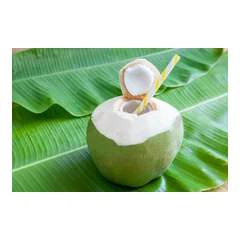
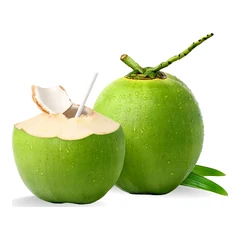
Corrige fotos de bebidas e centraliza miniaturas

diff --git a/index.html b/index.html
@@ -121,7 +121,17 @@
     h3 { margin: 0; font-size: 1.02rem; }
     article p { margin: .35rem 0; color: var(--muted); font-size: .9rem; line-height: 1.4; }
     strong { display: block; margin-top: .35rem; color: var(--accent); font-size: 1.08rem; font-variant-numeric: tabular-nums; }
-    article img { display: block; width: 100%; height: auto; aspect-ratio: 1; object-fit: contain; background: #fff; border-radius: .65rem; }
+    article img {
+      display: block;
+      place-self: center;
+      width: 100%;
+      height: auto;
+      aspect-ratio: 1;
+      object-fit: contain;
+      object-position: center;
+      background: #fff;
+      border-radius: .65rem;
+    }
   </style>
 </head>
 <body>
@@ -241,8 +251,8 @@
     </section>
     <section id="baldes-long-neck">
       <h2><span class="category-icon" aria-hidden="true">🧊</span>Baldes long neck</h2>
-      <article class="with-photo"><div><h3>Heineken (6 un.)</h3><strong>R$ 72,00</strong></div><img src="imagens/baldes/balde-heineken-long-neck.webp" alt="" width="240" height="240" loading="lazy" decoding="async"></article>
-      <article class="with-photo"><div><h3>Praya Lager (6 un.)</h3><strong>R$ 60,00</strong></div><img src="imagens/baldes/balde-praya.webp" alt="" width="240" height="240" loading="lazy" decoding="async"></article>
+      <article class="with-photo"><div><h3>Heineken (6 un.)</h3><strong>R$ 72,00</strong></div><img src="imagens/cervejas/heineken-long-neck.webp" alt="" width="240" height="240" loading="lazy" decoding="async"></article>
+      <article class="with-photo"><div><h3>Praya Lager (6 un.)</h3><strong>R$ 60,00</strong></div><img src="imagens/cervejas/praya-lager.webp" alt="" width="240" height="240" loading="lazy" decoding="async"></article>
     </section>
     <section id="drinks">
       <h2><span class="category-icon" aria-hidden="true">🍹</span>Drinks</h2>
@@ -253,8 +263,8 @@
       <h2><span class="category-icon" aria-hidden="true">🍷</span>Bebidas prontas</h2>
       <article class="with-photo"><div><h3>Skol Beats</h3><strong>R$ 13,00</strong></div><img src="imagens/drinks/skool-beats.webp" alt="" width="240" height="240" loading="lazy" decoding="async"></article>
       <article class="with-photo"><div><h3>Smirnoff Ice</h3><strong>R$ 13,00</strong></div><img src="imagens/drinks/smirnoff-ice.webp" alt="" width="240" height="240" loading="lazy" decoding="async"></article>
-      <article class="with-photo"><div><h3>GT Beats</h3><strong>R$ 13,00</strong></div><img src="imagens/drinks/gt-beats.webp" alt="" width="240" height="240" loading="lazy" decoding="async"></article>
-      <article class="with-photo"><div><h3>Draft Red</h3><strong>R$ 15,00</strong></div><img src="imagens/drinks/draft-red.webp" alt="" width="240" height="240" loading="lazy" decoding="async"></article>
+      <article class="with-photo"><div><h3>Beats GT (long neck)</h3><strong>R$ 13,00</strong></div><img src="imagens/drinks/gt-beats.webp" alt="" width="240" height="240" loading="lazy" decoding="async"></article>
+      <article class="with-photo"><div><h3>Chope de vinho Red Draft</h3><strong>R$ 15,00</strong></div><img src="imagens/drinks/draft-red.webp" alt="" width="240" height="240" loading="lazy" decoding="async"></article>
       <article class="with-photo"><div><h3>Taça de vinho</h3><strong>R$ 15,00</strong></div><img src="imagens/drinks/taca-de-vinho.webp" alt="" width="240" height="240" loading="lazy" decoding="async"></article>
       <article class="with-photo"><div><h3>Garrafa de vinho suave</h3><strong>R$ 40,00</strong></div><img src="imagens/drinks/garrafa-vinho-suave.webp" alt="" width="240" height="240" loading="lazy" decoding="async"></article>
       <article class="with-photo"><div><h3>Xeque Mate</h3><strong>R$ 17,00</strong></div><img src="imagens/drinks/xeque-mate.webp" alt="" width="240" height="240" loading="lazy" decoding="async"></article>

diff --git a/README.md b/README.md
@@ -13,15 +13,15 @@ O cardápio combina fotos de produtos e imagens ilustrativas. As miniaturas das 
 - [Del Valle em lata](https://www.zonasul.com.br/nectar-del-valle-uva-lata-290ml-879991/p)
 - [Coca-Cola Zero Açúcar](https://www.coopsupermercado.com.br/refrigerante-coca-cola-zero-lata-350ml-s/p)
 - [Powerade Mountain Blast](https://www.extrabom.com.br/p/isota-nico-powerade-mountain-blast-500ml/4784/)
-- [Coco verde natural](https://marieclaire.hu/szepseg/2022/03/24/kokuszviz-borapolas/)
+- [Coco verde natural](https://www.fambatsupermercados.com.br/product-page/coco-verde-unidade)
 - [Heineken 600 ml](https://www.cricare.com.br/74828-cerveja-heineken-garrafa-600ml-casco-gratis/p)
 - [Heineken long neck](https://www.aurestore.com.br/mercado/bebidas-alcoolicas/cerveja-heineken-long-neck-330ml)
 - [Heineken Ultimate](https://mercado.carrefour.com.br/produto/cerveja-lager-puro-malte-sem-gluten-heineken-ultimate-garrafa-330ml-340186304)
 - [Heineken 0.0](https://www.megaadega.com.br/cervejas/cerveja-heineken-0-0-330ml-vidro)
 - [Skol Beats Senses](https://www.americanas.com.br/skol-beats-senses-long-neck-269ml-12-unidades-7496763960/p)
-- [Beats GT](https://www.bemol.com.br/beats-drinks-gt-gin-tonica-lata-269ml-01-unidade/p)
+- [Beats GT long neck](https://www.casadebebidas.com/p/bebida-mista-alcoolica-gaseificada-gin-tonica-beats-gt-garrafa-269ml)
 - [Praya Lager](https://www.paulistaoatacadista.com.br/cerveja-praya-lager-355ml/p)
-- [Campo Largo Red Draft](https://www.supernovaera.com.br/chopp-de-vinho-campo-largo-red-draft-garrafa-500ml/p)
+- [Chope de vinho Red Draft — Loja da Fábrica Zanlorenzi](https://loja.zanlorenzi.com.br/media/catalog/product/cache/1/small_image/480x/7be598a145c41818f5fcbc3f25e46c5e/r/e/red-draft-redesign-2025.png)
 - [Xeque Mate em lata](https://www.fruttato.com.br/produtos/xeque-mate-bebida-de-mate-rum-guarana-e-limao-362ml-1jwsj/)
 - [Mascate Melancia](https://xequematebebidas.com.br/produtos/mascate-drinks-melancia/)
 - [Mascate Maracujá](https://xequematebebidas.com.br/produtos/mascate-drinks-maracuja/)
@@ -29,5 +29,3 @@ O cardápio combina fotos de produtos e imagens ilustrativas. As miniaturas das 
 - [Tanqueray Bossa Nova](https://www.geladaclub.com/products/tanqueray-bossa-nova-700ml)
 - [Gordon’s Premium Pink](https://www.sondadelivery.com.br/rudge/produto/gin-gordons-pink-700ml/1000029923)
 - [Balde de Heineken](https://www.dguests.com.br/cardapio/pointdaberrini)
-- [Balde de Heineken long neck](https://itupava1299.com.br/barbarium-pocket/)
-- [Balde de Praya](https://www.becodoportopiracicaba.com.br/)
